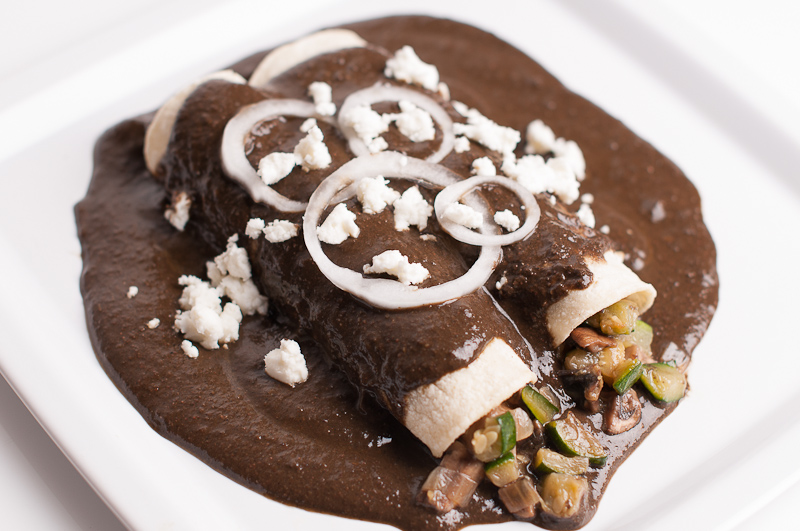
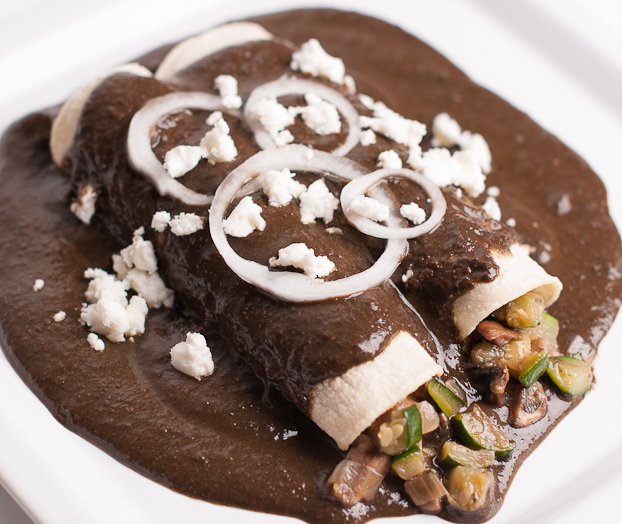
reworked products image apsect ratio, mexicanized contact page, embettered menu page, created add to cart button for each product.

diff --git a/public/css/master.css b/public/css/master.css
@@ -3,6 +3,21 @@
 	background-size: cover;
 }
 
+.fitIn{
+	background-color:#97824b;
+	color: #ffffff;
+	transition: 0.5s all;
+	-webkit-transition: 0.5s all;
+	-o-transition: 0.5s all;
+	-moz-transition: 0.5s all;
+	-ms-transition: 0.5s all;
+}
+
+.fitIn:hover{
+	background-color:#67522b;
+	color: white;
+}
+
 .paddingTopBot15{
 	padding-top: 15px;
 	padding-bottom: 15px;

diff --git a/public/js/shop.index.js b/public/js/shop.index.js
@@ -1,0 +1,3 @@
+function addToCart(_itemId){
+    alert(_itemId);
+}

diff --git a/app/views/home/contact.php b/app/views/home/contact.php
@@ -1,45 +1,60 @@
-<div class="panel panel-primary col-lg-8 col-md-10 col-sm-10">
-    <div class="panel-heading">
-        Nous apprécions votre point de vue!
-    </div>
-    <div class="text-center">
-        <h4>C'est pourquoi nous vous offrons la possibilité de nous communiquer votre opinion.</h4>
-    </div>
-    <form id="login-form" role="form" action="" method="post">
-        <div class="panel-body col-lg-6">
-            <div class="row">
-                <div class="col-lg-12">
-                    <div class="form-group">
-                        <label>Prénom</label>
-                        <input class="form-control" name="firstName" id="firstName" placeholder="Prénom" type="text">
-                    </div>
-                    <div class="form-group">
-                        <label>Nom</label>
-                        <input class="form-control" name="lastName" id="lastName" placeholder="Nom" type="text">
-                    </div>
-                    <div class="form-group">
-                        <label>Adresse e-mail</label>
-                        <input class="form-control" name="email" id="email" placeholder="exemple@mail.com" type="email">
-                    </div>
-                    <div class="form-group">
-                        <label>Téléphone</label>
-                        <input class="form-control" name="phone" id="phone" placeholder="(123) 456-7890" type="tel">
-                    </div>
+<div class="contact">
+    <div class="container">
+        <div class="menu-top">
+            <div class="col-md-4 menu-left animated wow fadeInLeft" data-wow-duration="1000ms" data-wow-delay="500ms">
+                <h3>Nous joindre</h3>
+                <label><i class="glyphicon glyphicon-menu-up"></i></label>
+                <span>Un service facile et rapide</span>
+            </div>
+            <div class="col-md-8 menu-right animated wow fadeInRight" data-wow-duration="1000ms" data-wow-delay="500ms">
+                <p>Vous avez rencontré un problème? Nous n'avons pas réussi à vous satisfaire? Peut-être voulez-vous simplement nous décrire votre expérience?</p>
+                <br>
+                <p>Nous vous offrons la possibilité de nous communiquer votre opinion. Nous vous répondrons le plus tôt possible.</p>
+            </div>
+            <div class="clearfix"> </div>
+        </div>
+        <div class="contact-top">
+            <div class="col-md-3">
+                <div class="address">
+                    <h4>Adresse</h4>
+                    <p>Saint-Tortilla de Beauce</p>
+                    <p>Rue du piment broyé</p>
+                    <p>Tel: 418 228-TACO</p>
+                    <p>E-mail : <a href="mailto:los.charros.hermanos@lhc.com">los.charros.hermanos@lhc.com</a></p>
                 </div>
             </div>
-        </div>
-        <div class="panel-body col-lg-6">
-            <div class="row">
-                <div class="col-lg-12">
-                    <div class="form-group">
-                        <label>Message</label>
-                        <textarea class="form-control" name="message" id="message" rows="12" placeholder="Laissez votre message..."></textarea>
+            <div class="col-md-9 contact-para animated wow fadeInDown" data-wow-duration="1000ms" data-wow-delay="500ms">
+                <h5>Remplissez notre formulaire et laisser nous votre commentaire</h5>
+                <form id="contactForm">
+                    <div class="grid-contact">
+                        <div class="col-md-6 contact-grid">
+                            <p class="your-para">Prénom</p>
+                            <input type="text" name="prenom" id="prenom" placeholder="Votre prénom...">
+                        </div>
+                        <div class="col-md-6 contact-grid">
+                            <p class="your-para">Nom</p>
+                            <input type="text" name="nom" id="nom" placeholder="Votre nom...">
+                        </div>
+                        <div class="clearfix"></div>
                     </div>
-                    <div class="form-group text-right">
-                        <button type="submit" class="btn btn-primary">Envoyer</button>
+                    <div class="grid-contact">
+                        <div class="col-md-6 contact-grid">
+                            <p class="your-para">E-mail</p>
+                            <input type="text" name="email" id="email" placeholder="Votre e-mail...">
+                        </div>
+                        <div class="col-md-6 contact-grid">
+                            <p class="your-para">Téléphone</p>
+                            <input type="text" name="telephone" id="telephone" placeholder="Votre numéro de téléphone...">
+                        </div>
+                        <div class="clearfix"> </div>
                     </div>
-                </div>
+                    <p class="your-para msg-para">Message</p>
+                    <textarea cols="77" rows="6" name="message" id="message" placeholder="Votre message..."></textarea>
+                    <div class="send">
+                        <input type="submit" value="Envoyer" >
+                    </div>
+                </form>
             </div>
         </div>
-    </form>
+    </div>
 </div>

diff --git a/app/views/Shop/index.php b/app/views/Shop/index.php
@@ -6,16 +6,12 @@ $productCount = count($_data["products"]); ?>
         <?php if ($productCount) { ?>
             <div class="menu-top">
                 <div class="col-md-5 menu-left animated wow fadeInLeft" data-wow-duration="1000ms" data-wow-delay="500ms">
-                    <h3>Menu des <?= ucfirst($_data["tag"]) ?>s</h3>
+                    <h3>Menu<?= !empty($_data["tag"]) ? " des " . ucfirst($_data["tag"]) . "s" : "" ?></h3>
                     <label><i class="glyphicon glyphicon-menu-up"></i></label>
                     <span>Jusqu'à <?= $productCount ?> repas</span>
                 </div>
                 <div class="col-md-7 menu-right animated wow fadeInRight" data-wow-duration="1000ms" data-wow-delay="500ms">
-                    <p>There are many variations of passages of Lorem Ipsum available, but the majority have suffered
-                        alteration in some form, by injected humour , or randomised words which don't look even slightly
-                        believable.There are many variations by injected humour. There are many variations of passages of
-                        Lorem Ipsum available.There are many variations of passages of Lorem Ipsum available, but the
-                        majority have suffered alteration in some form by injected humour , or randomised words</p>
+                    <p>Nos menus variés sont connus à travers le monde. Nos plats ont été conceptualisé au mexique, sont formés d'ingrédients récoltés en Chine, cuisinés au Viet-Nam et consommés en Amérique du Nord</p>
                 </div>
                 <div class="clearfix"></div>
             </div>
@@ -24,7 +20,7 @@ $productCount = count($_data["products"]); ?>
              * @type Product $product
              */
             foreach ($_data["products"] as $key => $product) {
-                if ($key % 3 == 0){ ?>
+                if (!boolval($key % 3)){ ?>
                     <div class="menu-bottom animated wow fadeInUp" data-wow-duration="1000ms" data-wow-delay="500ms">
                 <?php } ?>
                 <div class="col-md-4 menu-bottom1">
@@ -33,12 +29,13 @@ $productCount = count($_data["products"]); ?>
                             <img src="<?= resource('img/products/' . $product->getPicture()) ?>" alt="" class="img-responsive">
                             <div class="captn">
                                 <h4><?= $product->getName() ?></h4>
-                                <p><?= $product->getCost() ?></p>
+                                <p><?= $product->getCost() ?>$</p>
+                                <p class="btn fitIn" onclick="addToCart(<?= $product->getId(); ?>); return false;">Ajouter au panier</p>
                             </div>
                         </a>
                     </div>
                 </div>
-                <?php if (($key % 3 == 0 && $key > 0) || $key+1 == $productCount){ ?>
+                <?php if ((!boolval(($key + 1) % 3) && $key > 0) || $key + 1 == $productCount){ ?>
                     <div class="clearfix"></div>
                     </div>
                 <?php } ?>

diff --git a/app/views/templates/includes/header.php b/app/views/templates/includes/header.php
@@ -19,7 +19,7 @@ if(!empty($userId)){
 <div class="header <?= $enableBanner ? "" : "head" ?>">
     <div class="container">
         <div class="logo animated wow pulse" data-wow-duration="1000ms" data-wow-delay="500ms">
-            <h1><a class="navbar-brand" href="<?= GlobalHelper::pageLink("home/index"); ?>"><img src="<?= resource("img/pages/logo.png");?>" alt="Los Charros Hermanos"/></a></h1>
+            <h1><a class="navbar-brand" href="<?= GlobalHelper::pageLink("home/index"); ?>">LOS CHARROS HERMANOS</a></h1>
         </div>
         <div class="nav-icon">
             <a href="#" class="navicon"></a>
@@ -27,6 +27,10 @@ if(!empty($userId)){
                 <ul class="toggle-menu">
                     <li><a href="<?= GlobalHelper::pageLink("home/index"); ?>"> Accueil </a></li>
                     <li><a href="<?= GlobalHelper::pageLink("shop/index"); ?>"> Menu </a></li>
+                    <li><a href="<?= GlobalHelper::pageLink("home/contact"); ?>"> Nous joindre </a></li>
+                </ul>
+                <hr>
+                <ul class="toggle-menu">
                     <li><a href="<?= GlobalHelper::pageLink("user/cart"); ?>"> Panier </a></li>
                     <?php if(empty($user)){ ?>
                         <li><a href="<?= GlobalHelper::pageLink("user/login"); ?>"> Connexion </a></li>
@@ -34,7 +38,6 @@ if(!empty($userId)){
                         <li><a href="<?= GlobalHelper::pageLink("user/profile"); ?>"> Profile </a></li>
                         <li><a href="<?= GlobalHelper::pageLink("user/logout"); ?>"> Déconnexion </a></li>
                     <?php } ?>
-                    <li><a href="<?= GlobalHelper::pageLink("home/contact"); ?>"> Nous joindre </a></li>
                 </ul>
             </div>
             <script>

diff --git a/app/views/templates/includes/footer.php b/app/views/templates/includes/footer.php
@@ -2,19 +2,16 @@
     <div class="container">
         <div class="footer-head">
             <div class="col-md-8 footer-top animated wow fadeInRight" data-wow-duration="1000ms" data-wow-delay="500ms">
-                <ul class=" in">
-                    <li><a href="index.html">Home</a></li>
-                    <li><a  href="menu.html">Menu</a></li>
-                    <li><a  href="blog.html">Blog</a></li>
-                    <li><a  href="events.html">Events</a></li>
-                    <li><a  href="contact.html">Contact</a></li>
+                <ul class="in">
+                    <li><a href="<?= GlobalHelper::pageLink("home/index"); ?>"> Accueil </a></li>
+                    <li><a href="<?= GlobalHelper::pageLink("shop/index"); ?>"> Menu </a></li>
+                    <li><a href="<?= GlobalHelper::pageLink("home/contact"); ?>"> Nous joindre </a></li>
                 </ul>
-                <span>There are many variations of passages</span>
             </div>
             <div class="col-md-4 footer-bottom  animated wow fadeInLeft" data-wow-duration="1000ms" data-wow-delay="500ms">
-                <h2>Follow Us</h2>
+                <h2>Rejoignez-nous</h2>
                 <label><i class="glyphicon glyphicon-menu-up"></i></label>
-                <p>Lorem ipsum dolor sit amet, consectetur adipiscing elit, sed do eiusmod tempor incididunt ut labore et dolore magna aliqua. Ut enim ad minim veniam, quis.</p>
+                <p>Visiter nos différentes pages sur divers réseaux sociaux</p>
                 <ul class="social-ic">
                     <li><a href="#"><i></i></a></li>
                     <li><a href="#"><i class="ic"></i></a></li>

diff --git a/app/views/home/index.php b/app/views/home/index.php
@@ -7,7 +7,7 @@
                 <span>Découvrez notre variété en quelques clics</span>
             </div>
             <div class="col-md-6 content-right animated wow fadeInRight" data-wow-duration="1000ms" data-wow-delay="500ms">
-                <p>Plus de <?= $_data["productCount"];?> plats différents composent notre savoureux menu. Nos repas varient du style classique à l'audacieux et sont préparé avec l'amour du salaire minimum légal du Viet-Nam.</p>
+                <p>Plus de <?= $_data["productCount"];?> plats différents composent notre savoureux menu. Nos repas varient du style classique à l'audacieux et sont préparé avec l'amour des salairiés minimum du Viet-Nam.</p>
             </div>
             <div class="clearfix"> </div>
         </div>

diff --git a/app/controllers/HomeController.php b/app/controllers/HomeController.php
@@ -16,6 +16,15 @@ class HomeController extends Controller
     }
 
     /**
+     * Contact page view
+     *
+     * @Page(title="Nous joindre")
+     */
+    function contactAction(){
+        $this->view("home/contact");
+    }
+
+    /**
      * Error page view
      *
      * @Page(title="Erreur",template="empty")
@@ -29,14 +38,5 @@ class HomeController extends Controller
         else{
             throw new Exception("An unexpected error occured.");
         }
-    }
-
-    /**
-     * Contact page view
-     *
-     * @Page(title="Nous joindre")
-     */
-    function contactAction(){
-        $this->view("home/contact");
     }
 }

diff --git a/app/controllers/ShopController.php b/app/controllers/ShopController.php
@@ -13,7 +13,7 @@ class ShopController extends Controller
     function indexAction($_page = 1,$_tag = ""){
         $rep = new ProductRepository();
 
-        $limit = 10;
+        $limit = 9;
         $offset = ($_page - 1) * $limit;
         $productCount = $rep->countAllByTag($_tag);
         $pageCount = (int)ceil($productCount/$limit);
